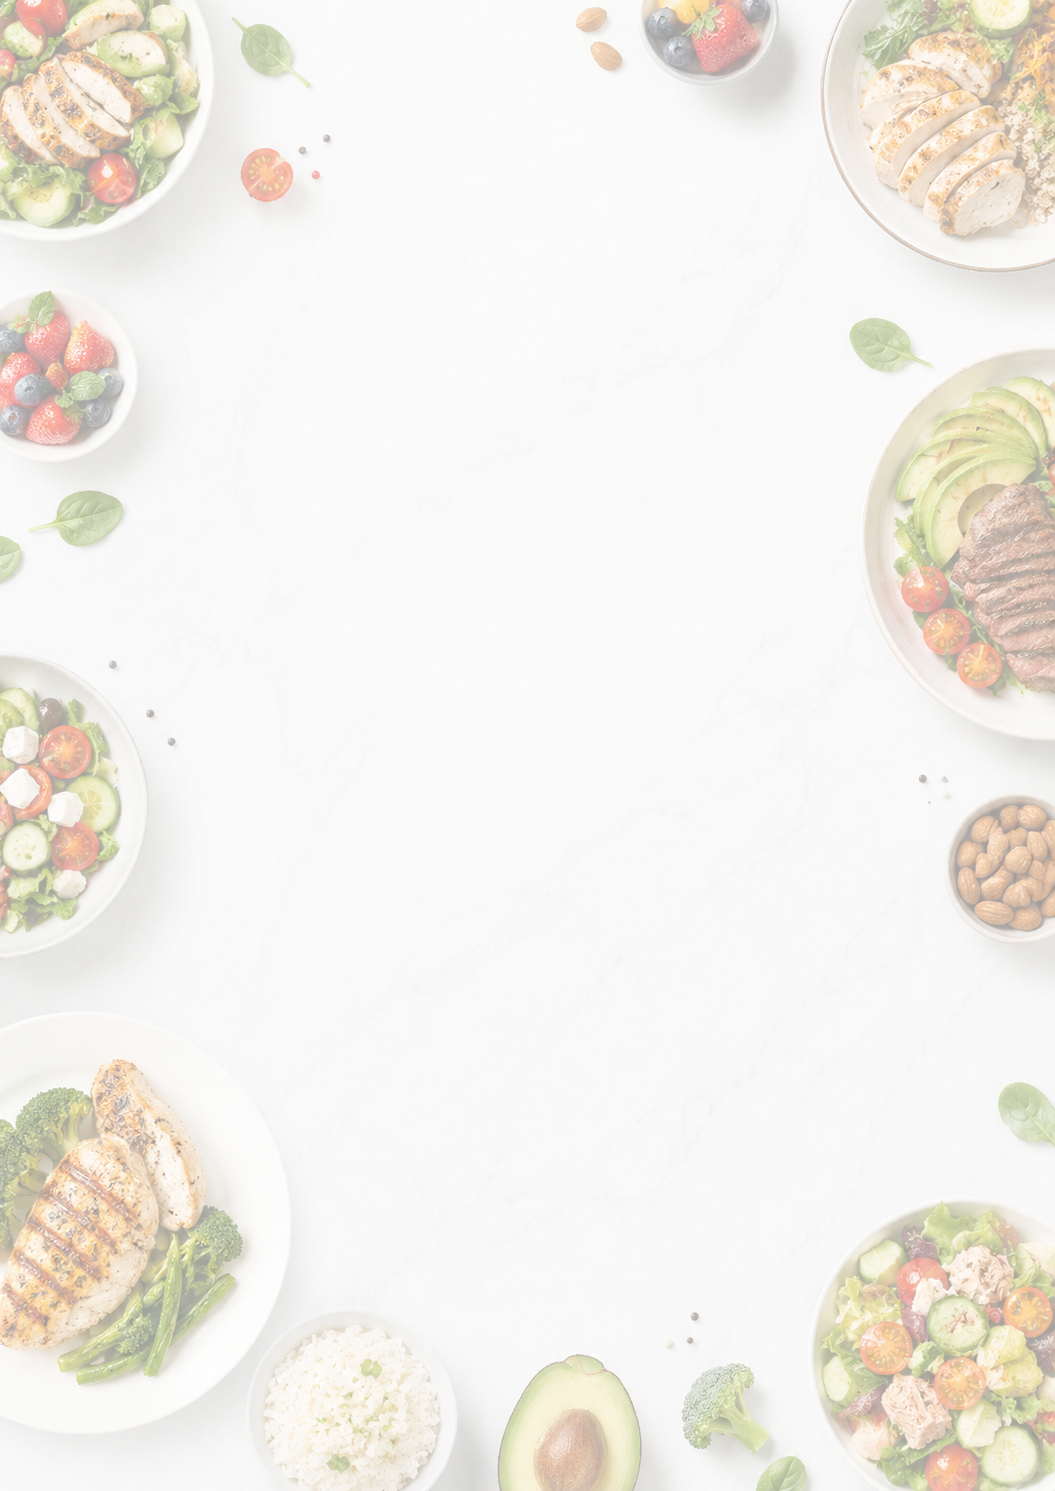
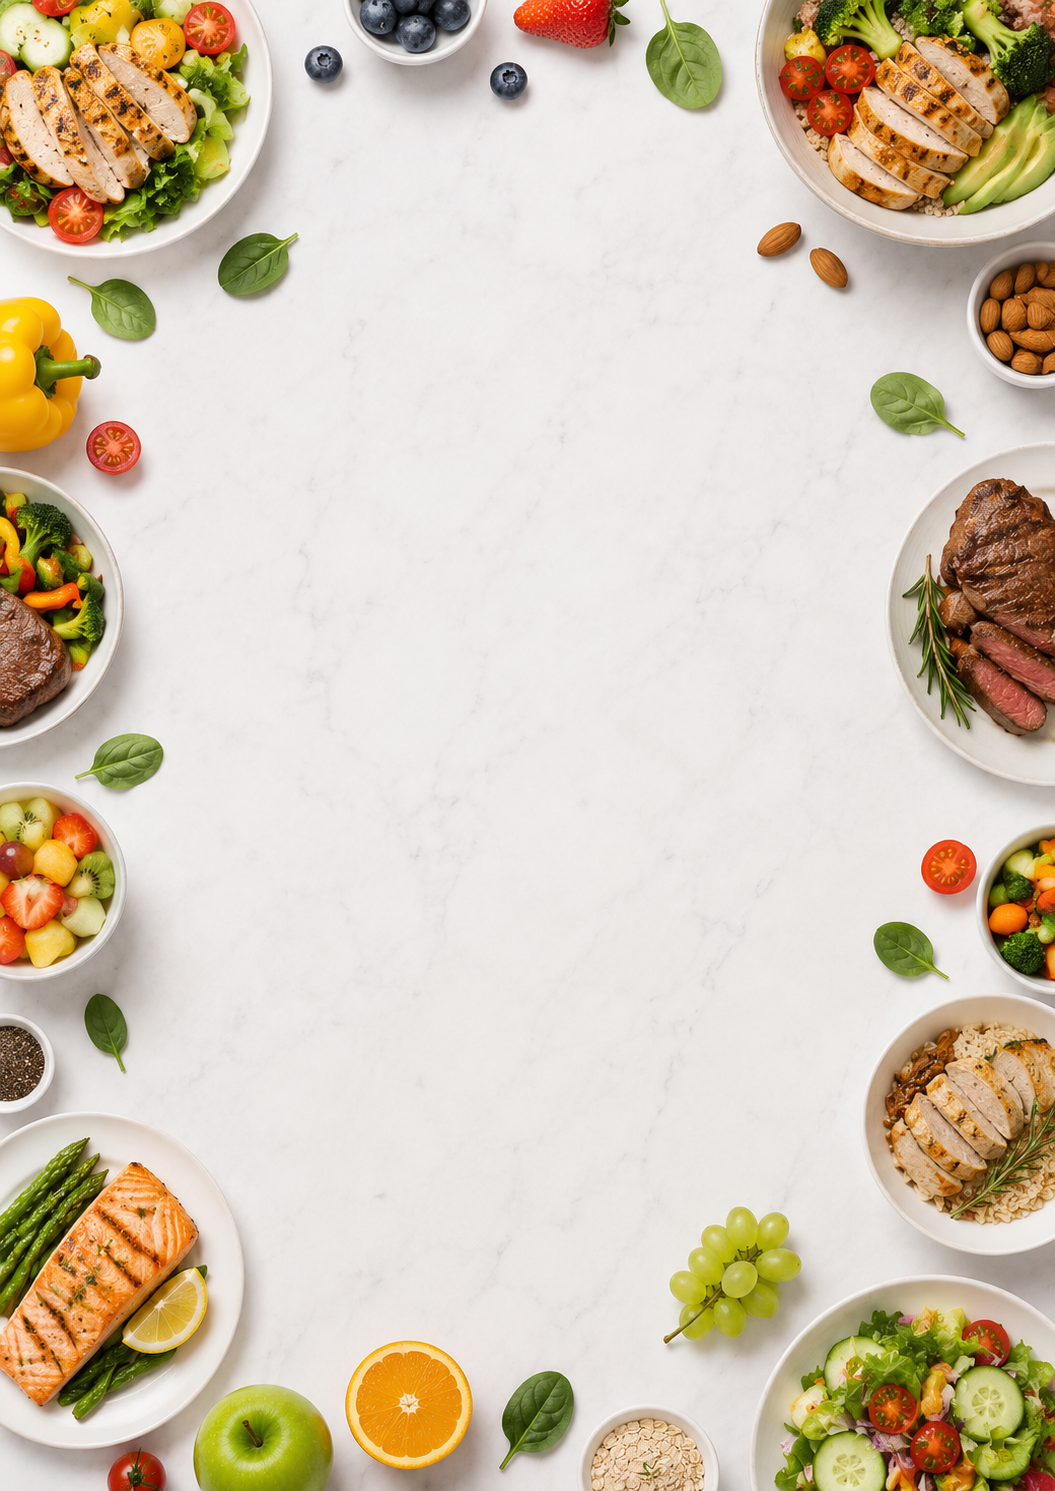
Update images and app

diff --git a/nutrition_app.py b/nutrition_app.py
@@ -249,7 +249,7 @@ if submitted:
                 
                 pdf_bytes = generate_nutrition_pdf(data)
                 st.markdown('<div class="success-box">✅ NUTRITION PLAN PDF GENERATED!</div>', unsafe_allow_html=True)
-                st.download_button('📥 DOWNLOAD PDF', data=pdf_bytes, file_name=f'AhmedTeka_Nutrition_{client_name}.pdf', mime='application/pdf', use_container_width=True)
+                st.download_button('📥 DOWNLOAD PDF', data=pdf_bytes, file_name=f'AhmedTeka_DietPlan_{client_name}.pdf', mime='application/pdf', use_container_width=True)
                 
             except Exception as e:
                 st.error(f'❌ Error: {str(e)}')